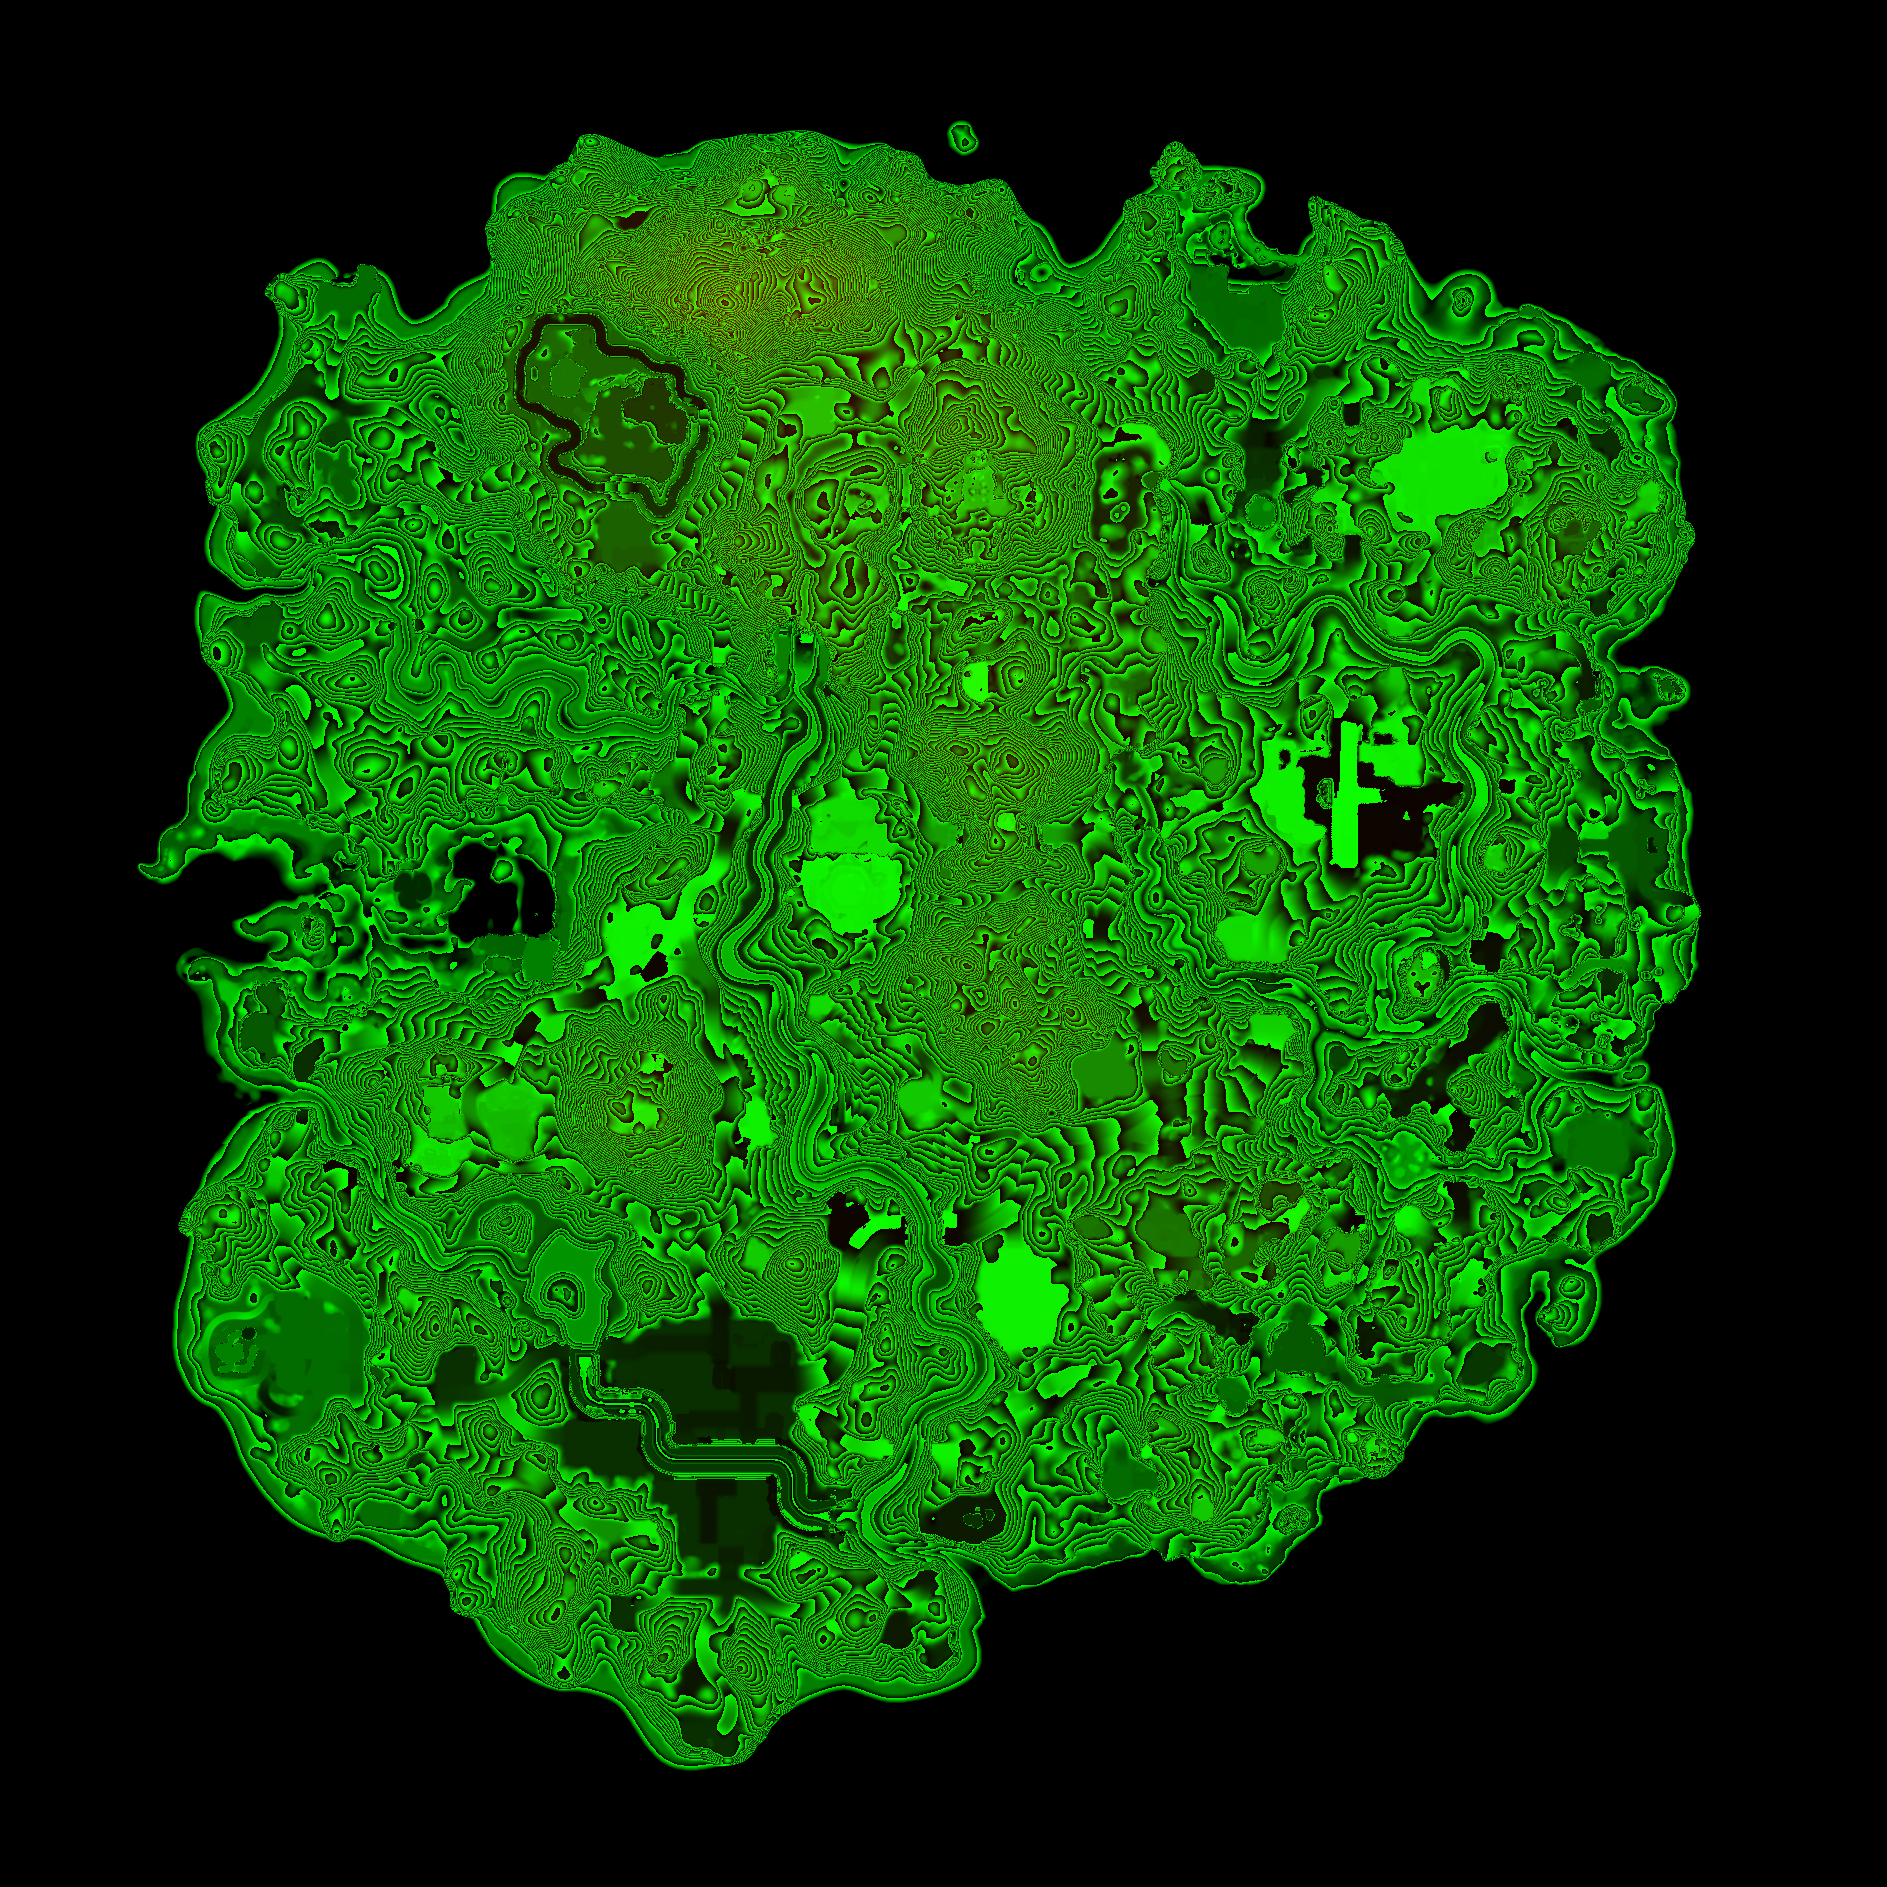
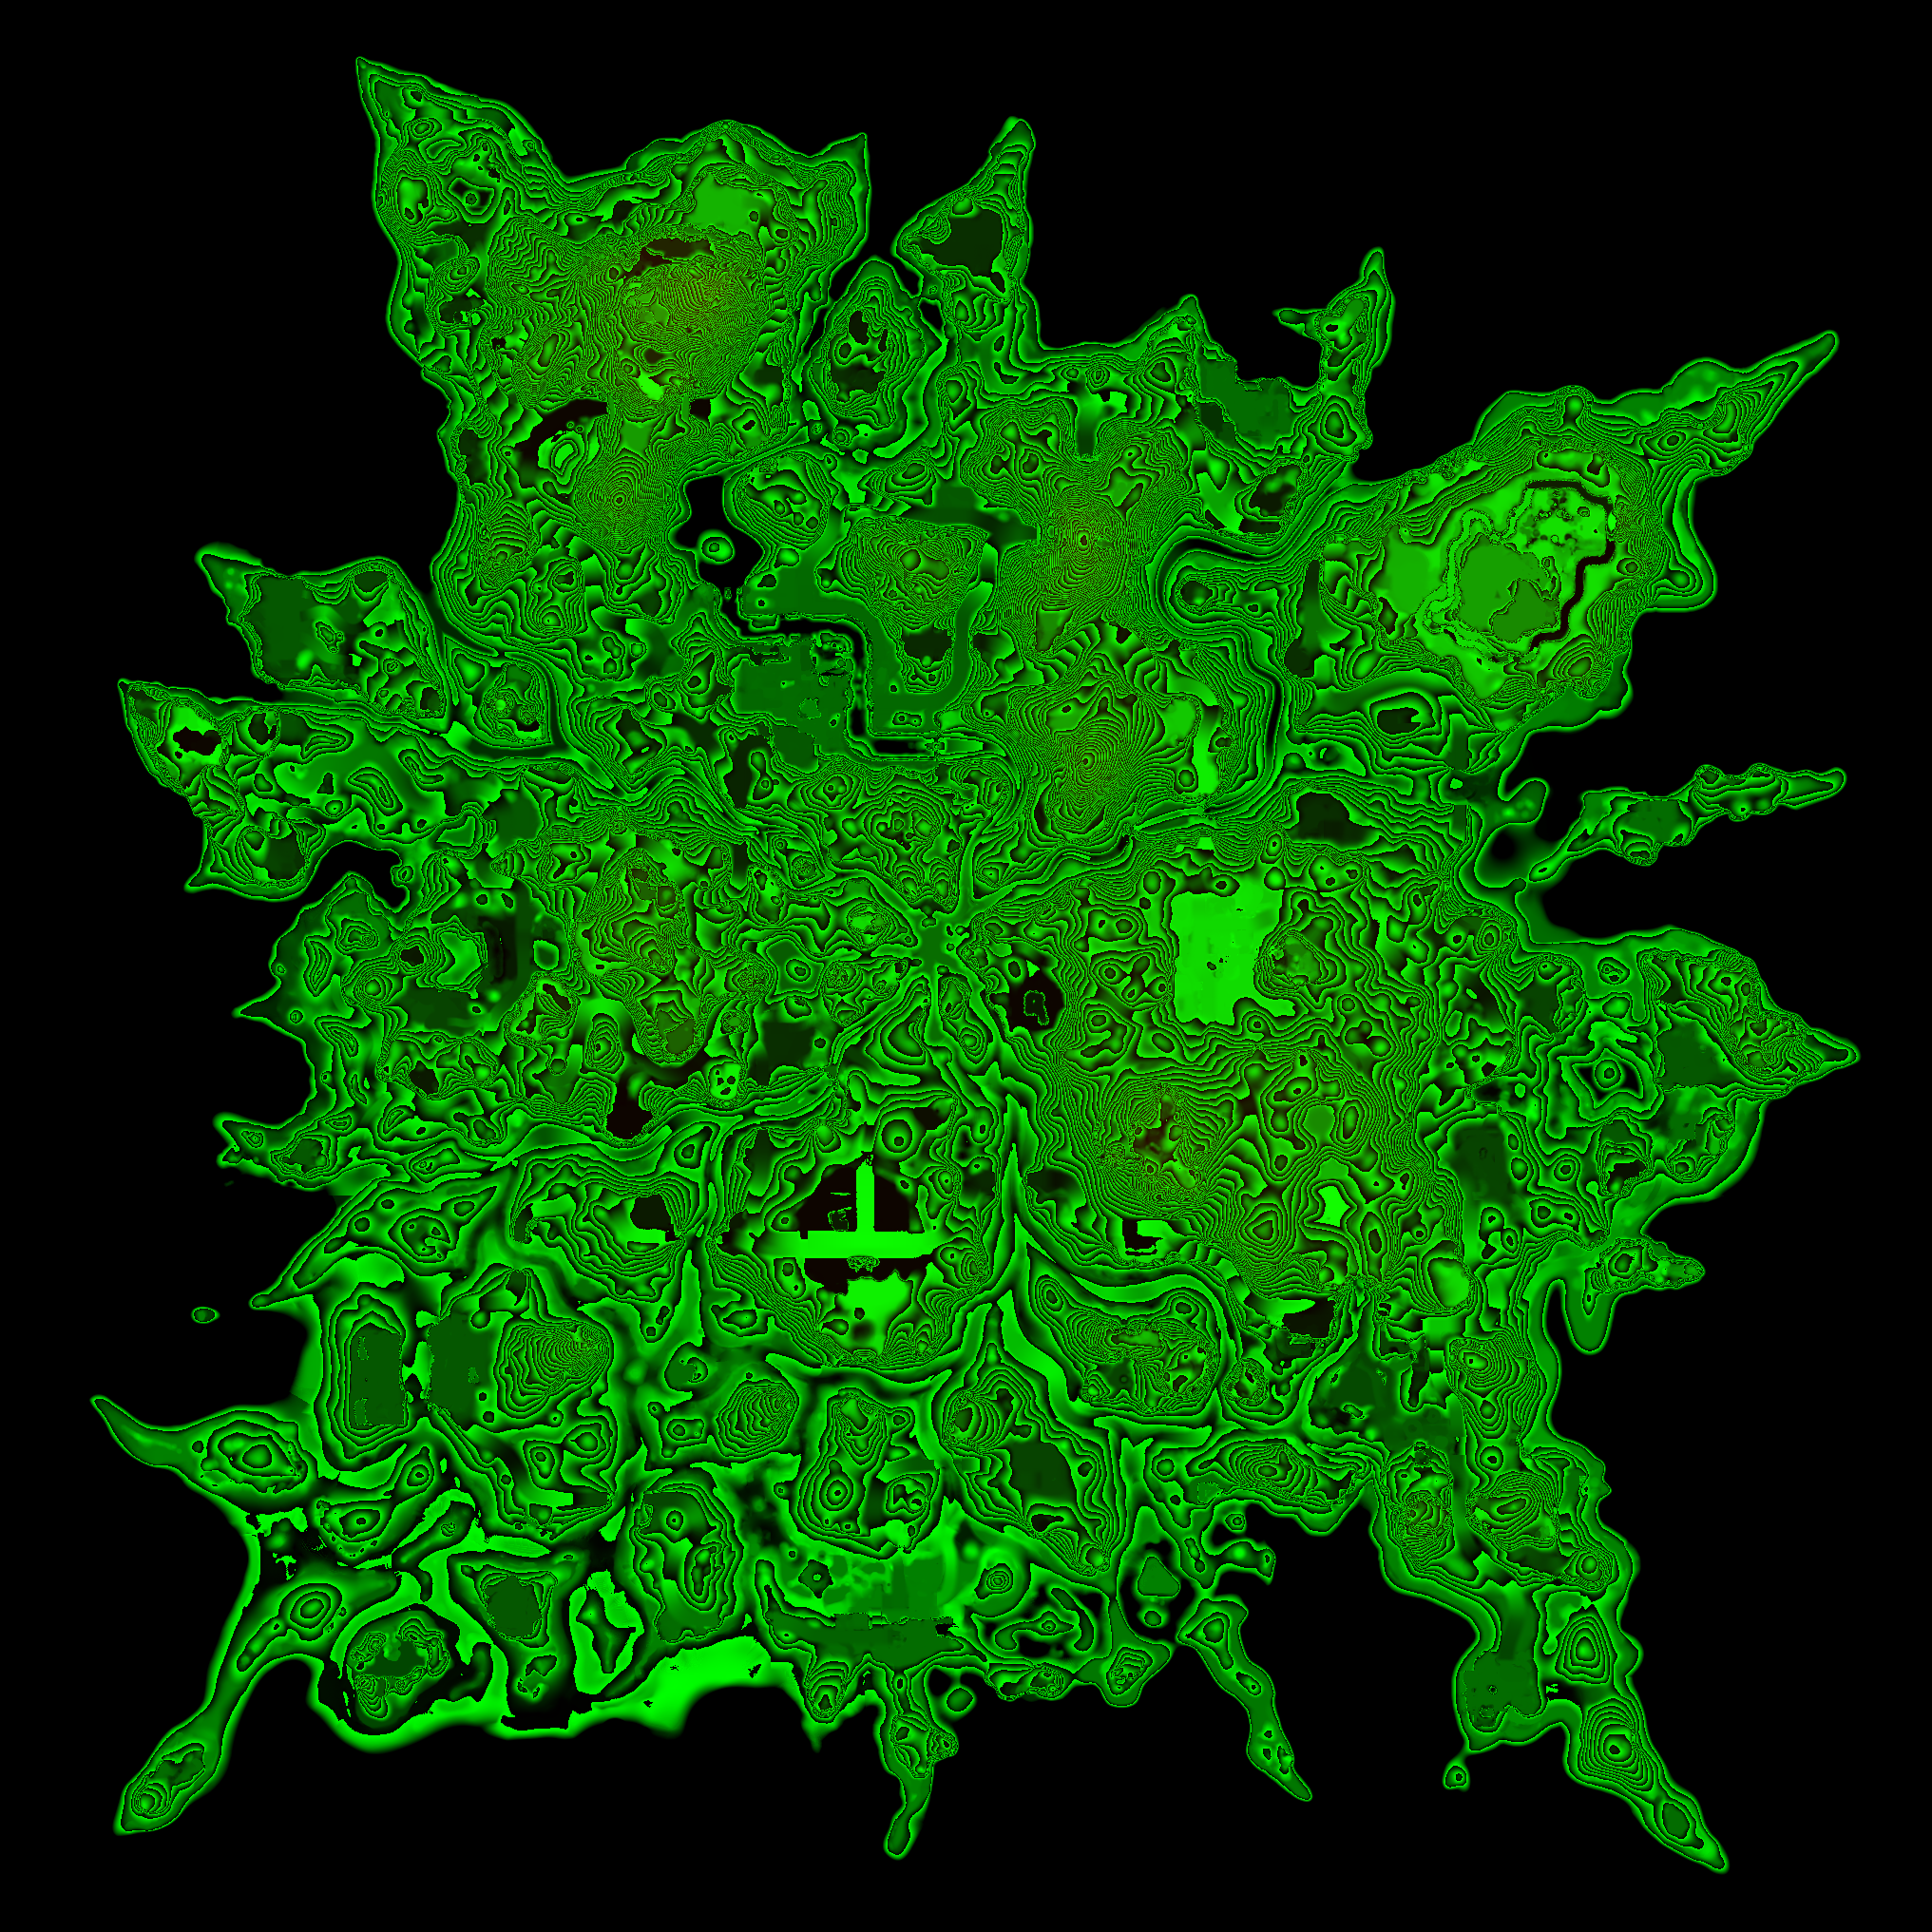
Update map to Embenco patch 41.00 (new-season island)
New island map tiles + POIs. Embenco switched heightmap.png to 16-bit
grayscale at 41.00; converted to the repo's RGB (R<<8)|G cm encoding
(altitude_cm = pixel - 32256, sea = 32256) so app.js reads it unchanged.

diff --git a/index.html b/index.html
@@ -35,7 +35,7 @@
     <a href="https://ashkurenko.com" target="_blank" rel="noopener">ashkurenko.com</a>
     · <span id="credit-map">Map &amp; heightmap</span>:
     <a href="https://www.embenco.nl/drop-calculator/" target="_blank" rel="noopener">embenco.nl</a>
-    · <span id="credit-patch">Patch</span> 40.40
+    · <span id="credit-patch">Patch</span> 41.00
     · <button id="lang-toggle">UK</button>
   </div>
 